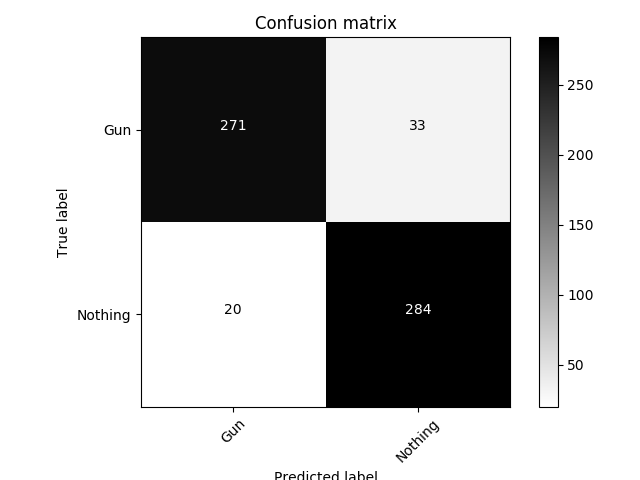
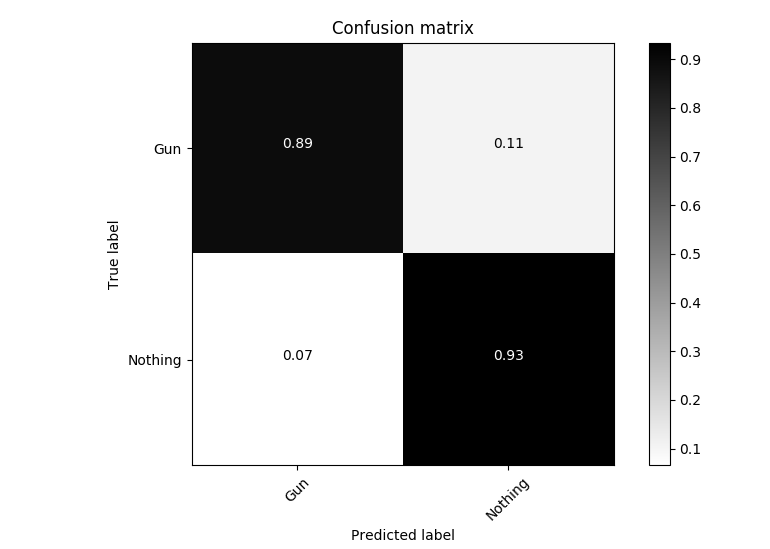
last day 226

diff --git a/templates/index.html b/templates/index.html
@@ -87,7 +87,8 @@
     <!-- Model Section -->
     <section id="download" class="content-section">
       <div class="container">
-        <div class="col-lg-10 mx-auto">
+        <div class="row">
+        <div class="col-lg-6">
           <h2>About the model</h2>
           <br>
           <p><i>Some details on the final structure:
@@ -99,7 +100,11 @@
             <br>If you want more information:</i></p>
           <a href="https://en.wikipedia.org/wiki/Convolutional_neural_network" class="btn btn-default btn-lg">CNN theory</a>
         </div>
+        <div class="col-lg-6">
+          <img src="static/img/confusion_matrix.png" width="500px">
+        </div>
       </div>
+    </div>
     </section>
 
     <!-- Contact Section -->
